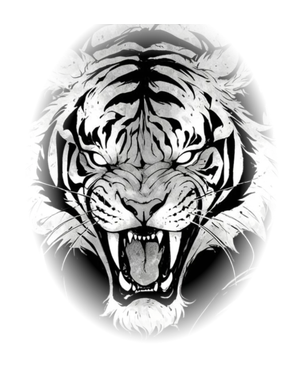
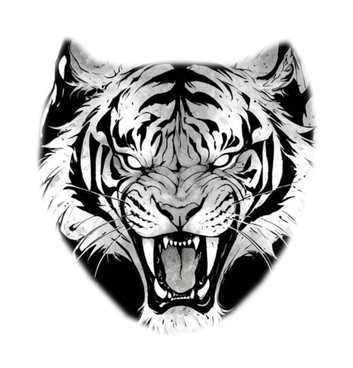
art: Hổ Khiếu — cắt đầu hổ ôm sát khuôn đầu (đủ tai + má, bỏ phần lưng giữa 2 tai)
Claude-Session: https://claude.ai/code/session_014A94BHnyL4tu48AS77QbVM

diff --git a/src/vfxlab/main.ts b/src/vfxlab/main.ts
@@ -36,7 +36,7 @@ class LabScene extends Phaser.Scene {
   preload(): void {
     this.load.spritesheet('hero', '/ui/hero_b_walk.png', { frameWidth: 52, frameHeight: 68 });
     this.load.image(QI_SWORD, '/vfx/qi_sword_light.png');
-    this.load.image(TIGER_HEAD, '/vfx/tiger_head.png?v=3');
+    this.load.image(TIGER_HEAD, '/vfx/tiger_head.png?v=4');
     this.load.image(ARROW_HEAD, '/vfx/arrow_head.png?v=1');
     for (const [n, key] of Object.entries(FIST_TEX)) this.load.image(key, `/vfx/fist_${n}.png?v=3`);
     for (const [n, key] of Object.entries(SPEAR_TEX)) this.load.image(key, `/vfx/spear_${n}.png?v=1`);

diff --git a/tools/art/tiger_fx.py b/tools/art/tiger_fx.py
@@ -15,7 +15,11 @@ from PIL import Image, ImageDraw, ImageFilter
 HERE = os.path.dirname(os.path.abspath(__file__))
 ROOT = os.path.dirname(os.path.dirname(HERE))
 OUT = os.path.join(HERE, 'out')
-CROP = (215, 395, 915, 1275)          # chỉ phần đầu hổ (bỏ dải mực xoáy quanh)
+CROP = (130, 400, 940, 1250)
+# đường bao ĐẦU hổ trong ảnh mẫu (đủ 2 tai + 2 bên má/bờm, cắt ngang trán để bỏ phần lưng phía trên)
+HEAD = [(240, 440), (268, 452), (318, 500), (400, 515), (540, 505), (680, 510), (742, 488), (800, 455), (830, 448),
+        (860, 500), (888, 580), (900, 680), (890, 790), (862, 895), (820, 995), (760, 1085), (680, 1165), (595, 1212),
+        (500, 1218), (405, 1175), (310, 1075), (235, 970), (185, 860), (172, 760), (182, 650), (205, 548), (225, 470)]
 SIZE = 320
 
 
@@ -35,14 +39,12 @@ def main():
     bgm = (a[..., 0] == 255) & (a[..., 1] == 0) & (a[..., 2] == 255)
     alpha = (~bgm).astype(np.uint8) * 255
     rgba = np.dstack([np.array(src), alpha])
+    # chỉ giữ trong đường bao đầu hổ (mép mềm), bỏ lưng + dải mực xoáy
+    hm = Image.new('L', src.size, 0)
+    ImageDraw.Draw(hm).polygon(HEAD, fill=255)
+    hm = hm.filter(ImageFilter.GaussianBlur(6))
+    rgba[..., 3] = (rgba[..., 3].astype(float) * np.array(hm) / 255).astype(np.uint8)
     img = Image.fromarray(rgba, 'RGBA').crop(CROP)
-    # mép mềm 1px để khỏi răng cưa + mờ dần ra rìa theo hình elip (khung cắt không để lại cạnh thẳng)
-    al = np.array(img.getchannel('A').filter(ImageFilter.GaussianBlur(1.2))).astype(float)
-    hh, ww = al.shape
-    yy, xx = np.mgrid[0:hh, 0:ww].astype(float)
-    rr = np.hypot((xx - ww / 2) / (ww / 2), (yy - hh * 0.47) / (hh * 0.53))
-    al *= np.clip((1.0 - rr) / 0.3, 0, 1) ** 1.2           # mờ dần rất rộng → không thấy rìa
-    img.putalpha(Image.fromarray(al.astype(np.uint8)))
     k = SIZE / max(img.size)
     img = img.resize((round(img.width * k), round(img.height * k)), Image.LANCZOS)
     # quầng sáng trắng sau lưng
